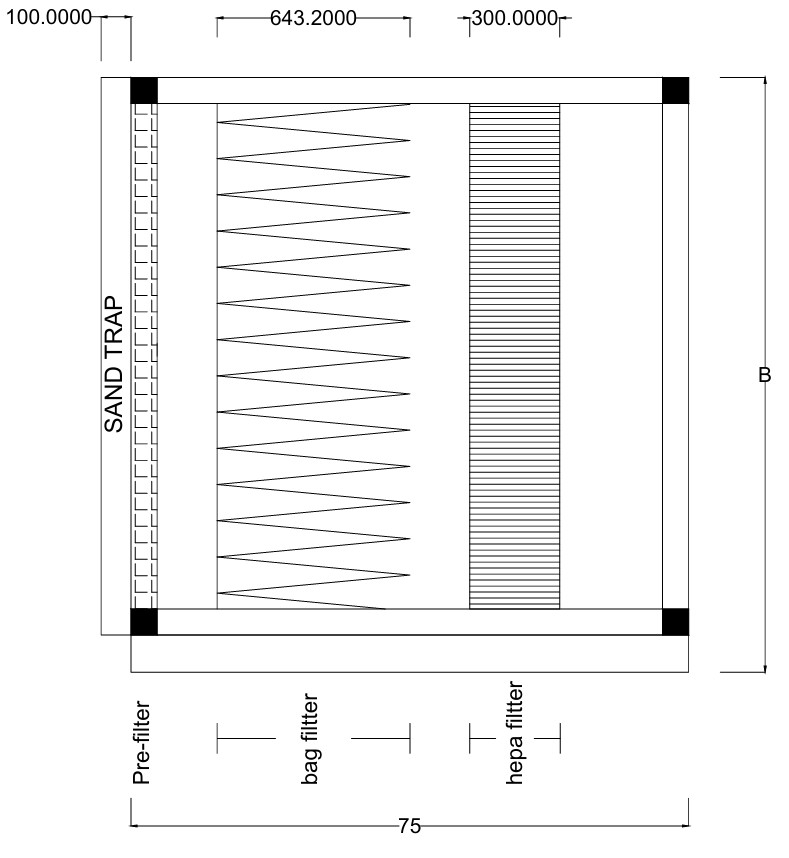
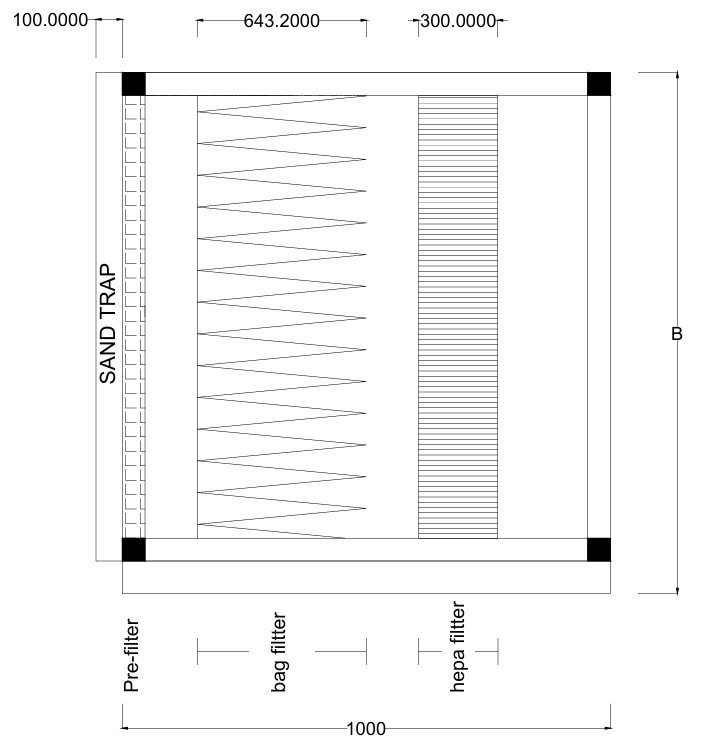
change image in dimensions

diff --git a/src/Pages/FlowSearch.jsx b/src/Pages/FlowSearch.jsx
@@ -306,7 +306,7 @@ const FlowSearch = () => {
     return [];
   };
   
-  // Get all possible series for image mapping
+  //  all possible series for image mapping
   const getAllSeriesOptions = () => {
     return [
       'NBR',
